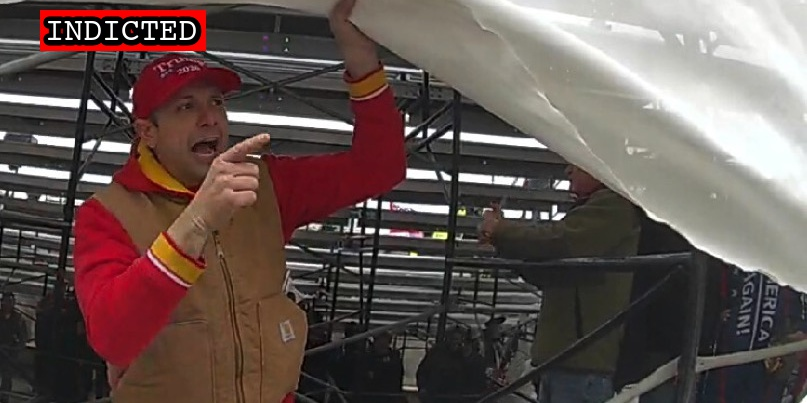
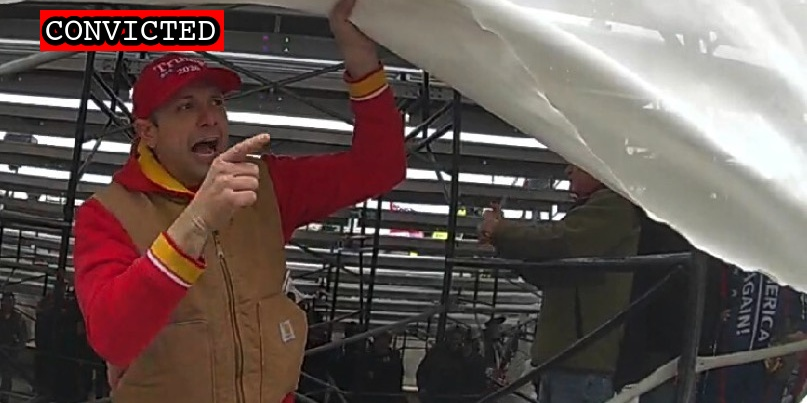
Latest Import

Changed region(s): [[0.031, 0.0, 0.2788, 0.1489]]

diff --git a/docs/_suspects/michael-roche.md b/docs/_suspects/michael-roche.md
@@ -4,11 +4,11 @@ lastName: Roche
 hashtag: MichaelRoche
 aka:
 residence: Tennessee
-status: Indicted
+status: Convicted
 date: 2021-04-13
 charged: 2021-04-13
 indicted: 2022-03-16
-convicted:
+convicted: 2023-03-10
 acquitted:
 sentenced:
 dismissed:
@@ -32,7 +32,7 @@ raid:
 perpwalk:
 quote: "So when we got in the chamber we all started praying and shouting in the name of Jesus Christ and inviting Christ back into our state Capitol"
 title: Michael Roche arrested on April 13, 2021
-description: Click for latest case details. Suspects innocent until proven guilty.
+description: Convicted on March 10, 2023. Click for latest case details.
 author: seditiontrack
 layout: suspect
 published: true
@@ -41,8 +41,33 @@ caseName: USA v. ROCHE
 judge: Beryl A. Howell
 videos:
 charges:
+  - code: 18 USC § 1512(c)(2),2
+    title: Obstruction of an Official Proceeding (Aiding and Abetting)
+    url: https://www.law.cornell.edu/uscode/text/18/1512
+    felony: true
+  - code: 18 USC § 1752(a)(1)
+    title: Entering a restricted building or grounds
+    url: https://www.law.cornell.edu/uscode/text/18/1752
+    felony: false
+  - code: 18 USC § 1752(a)(2)
+    title: Disorderly and disruptive conduct in a restricted building or grounds
+    url: https://www.law.cornell.edu/uscode/text/18/1752
+    felony: false
+  - code: 40 USC § 5104(e)(2)(A)
+    title: Entering and Remaining on the Floor of Congress
+    url: https://www.law.cornell.edu/uscode/text/40/5104
+    felony: false
+  - code: 40 USC § 5104(e)(2)(D)
+    title: Disorderly Conduct in a Capitol Building
+    url: https://www.law.cornell.edu/uscode/text/40/5104
+    felony: false
+  - code: 40 USC § 5104(e)(2)(G)
+    title: Parading, demonstrating or picketing in a Capitol building
+    url: https://www.law.cornell.edu/uscode/text/40/5104
+    felony: false
 sentence:
 ---
+
 - [News Report](https://www.tennessean.com/story/news/crime/2021/04/13/murfreesboro-man-michael-roche-arrested-u-s-capitol-riot-case/7205782002/)
 - [Complaint](https://www.justice.gov/usao-dc/case-multi-defendant/file/1386731/download)
 - [Statement of Facts](https://www.justice.gov/usao-dc/case-multi-defendant/file/1386736/download)

diff --git a/docs/_suspects/cale-clayton.md b/docs/_suspects/cale-clayton.md
@@ -4,11 +4,11 @@ lastName: Clayton
 hashtag: MAGAHotDog
 aka:
 residence: Missouri
-status: Indicted
+status: Convicted
 date: 2022-03-28
 charged: 2022-03-28
 indicted: 2022-04-22
-convicted:
+convicted: 2023-03-10
 acquitted:
 sentenced:
 dismissed:
@@ -32,7 +32,7 @@ raid:
 perpwalk:
 quote: "Your fucking president told us to be here. You should be on this side, right here, going with us. You are an American citizen. Your fucking President told you to do that."
 title: Cale Clayton charged on March 28th, 2022
-description: Click for latest case details. Suspects innocent until proven guilty.
+description: Convicted on March 10, 2023. Click for latest case details.
 author: seditiontrack
 layout: suspect
 published: true
@@ -41,8 +41,17 @@ caseName: USA v. CLAYTON
 judge: Royce C. Lamberth
 videos:
 charges:
+  - code: 18 USC § 111(a)(1)
+    title: Assaulting, resisting, or impeding certain officers or employees
+    url: https://www.law.cornell.edu/uscode/text/18/111
+    felony: true
+  - code: 18 USC § 111(a)(1)
+    title: Assaulting, resisting, or impeding certain officers or employees
+    url: https://www.law.cornell.edu/uscode/text/18/111
+    felony: true
 sentence:
 ---
+
 - [News Report](https://www.kctv5.com/2022/03/31/drexel-mo-man-charged-assaulting-law-enforcement-officers-during-capitol-riot/)
 - [Complaint](https://www.justice.gov/usao-dc/case-multi-defendant/file/1489216/download)
 - [Statement of Facts](https://www.justice.gov/usao-dc/case-multi-defendant/file/1489221/download)

diff --git a/docs/_suspects/christopher-quaglin.md b/docs/_suspects/christopher-quaglin.md
@@ -21,7 +21,7 @@ sentencing:
 status_conference:
 age: 35
 occupation: Electrician
-affiliations:
+affiliations: Proud Boys
 jurisdiction: Federal
 image: /images/preview/christopher-quaglin.jpg
 suspect: christopher-quaglin.jpg

diff --git a/docs/_suspects/lawrence-ligas.md b/docs/_suspects/lawrence-ligas.md
@@ -18,7 +18,7 @@ trial_date: 2023-04-03
 trial_type: Bench Trial
 jury_selection:
 sentencing:
-status_conference: 2023-03-13
+status_conference:
 age: 62
 occupation:
 affiliations:
